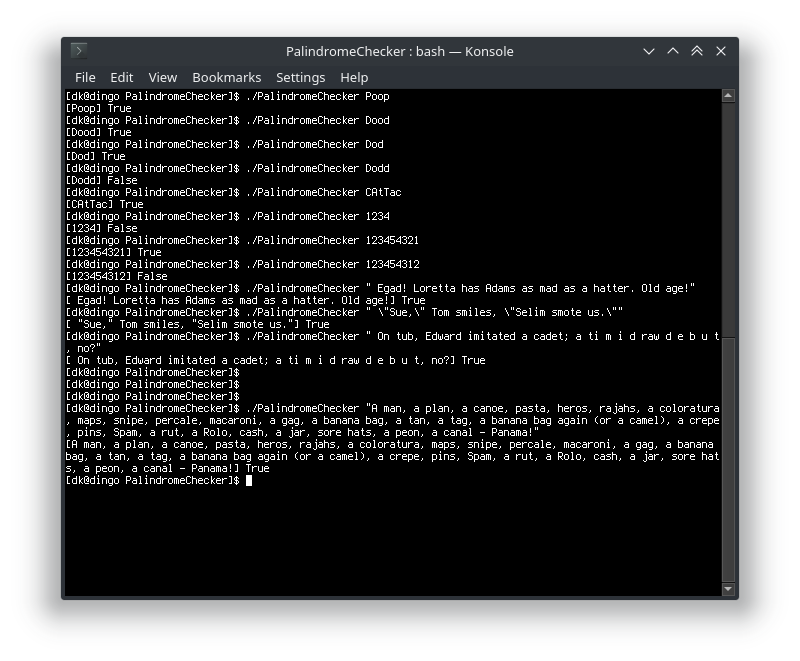
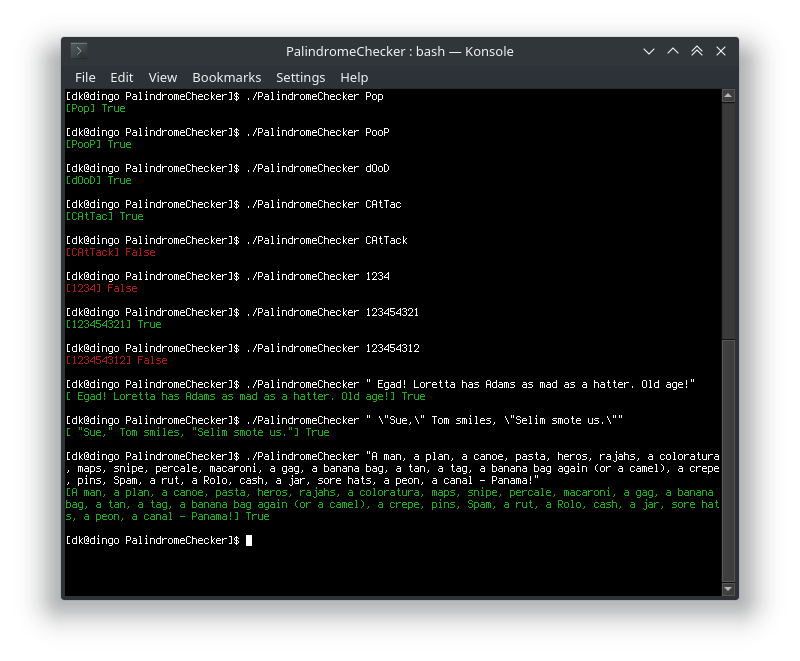
Added colored output

diff --git a/src/palindrome.c b/src/palindrome.c
@@ -18,23 +18,26 @@ static int checkIfOutsideAlphabet(char c) {
 }
 
 int checkIfPalindrome(char* string) {
+    
     int i;
     int isPalindrome = 1;
     int indexLeft = 0;
     int indexRight = strlen(string)-1;
+
+    char *tempString = strdup(string);
     
-    for (i = 0; i < strlen(string); ++i)
-        string[i] = tolower(string[i]);
+    for (i = 0; i < strlen(tempString); ++i)
+        tempString[i] = tolower(string[i]);
     
     while ((indexLeft <= indexRight) && isPalindrome) {
 
         // if character at current index is not valid, move index
-        while (checkIfOutsideAlphabet(string[indexLeft]) && indexLeft < strlen(string)-1) 
+        while (checkIfOutsideAlphabet(tempString[indexLeft]) && indexLeft < strlen(tempString)-1) 
             ++indexLeft;        
-        while (checkIfOutsideAlphabet(string[indexRight]) && indexRight > 0)
+        while (checkIfOutsideAlphabet(tempString[indexRight]) && indexRight > 0)
             --indexRight;
 
-        if (string[indexLeft] != string[indexRight])
+        if (tempString[indexLeft] != tempString[indexRight])
             return 0;
 
         ++indexLeft;
@@ -43,4 +46,5 @@ int checkIfPalindrome(char* string) {
     }
         
     return 1;
+    
 }

diff --git a/src/main.c b/src/main.c
@@ -12,19 +12,26 @@
 #include "palindrome.h"
 #include <stdio.h>
 
+#define RED "\033[0;31m"
+#define GREEN "\033[0;32m"
+#define RESET "\033[0m\n"
+
 int main(int argc, char** argv) {
     
     if (argc == 1) {
-		puts("Need a string");
-		return 1;
-	}
-	
-	printf("[%s] ",argv[1]);
-    if (checkIfPalindrome(argv[1]))
-        puts("True");
-    else
-        puts("False");
+        puts("Need a string");
+        return 1;
+    }
     
-	return 0;
+    if (checkIfPalindrome(argv[1])) {
+        printf(GREEN"[%s] ",argv[1]);
+        puts("True");
+    } else {
+        printf(RED"[%s] ",argv[1]);
+        puts("False");
+    }
+    
+    printf(RESET);
+    return 0;
     
 }
